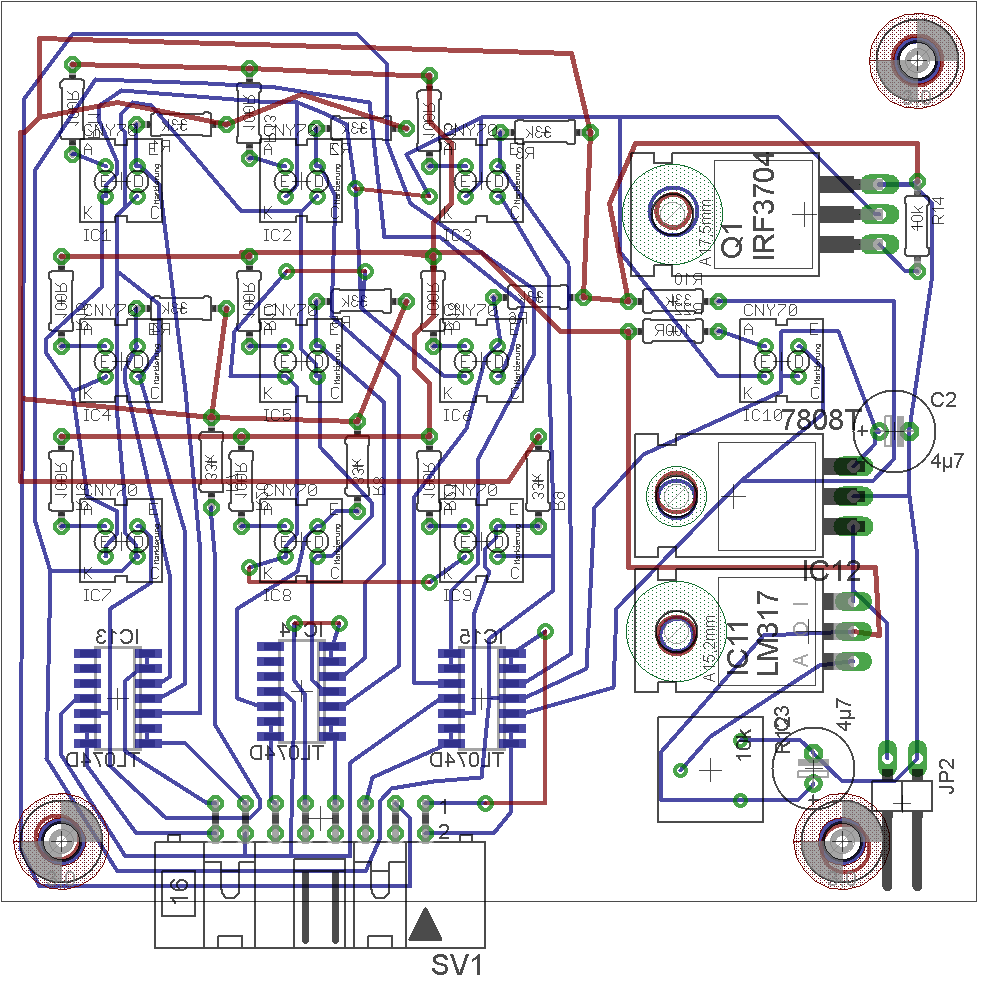
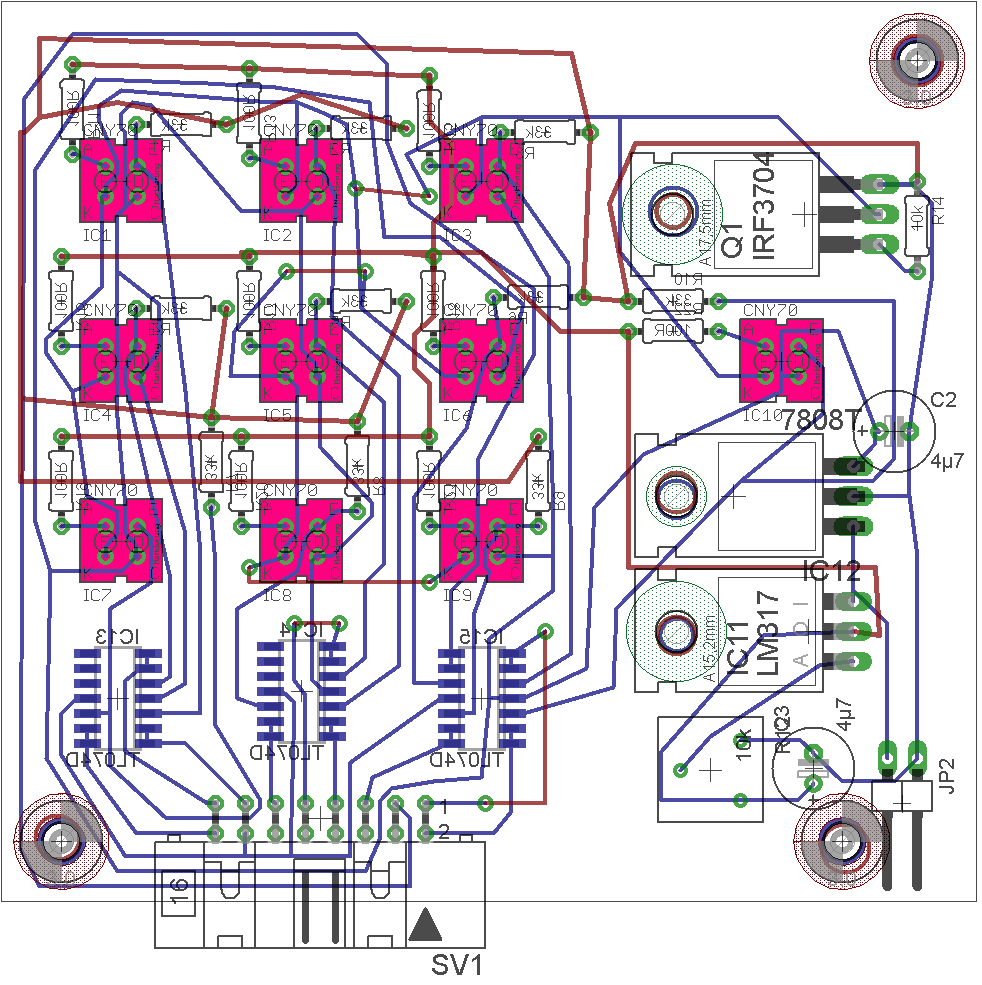
revesion entwicklung

diff --git a/Master_Schmatz.tex b/Master_Schmatz.tex
@@ -269,10 +269,17 @@ Laut IEC 60891 \cite{norm891} berechnet sich die Einstrahlung aus dem gemessenen
 \begin{equation}
 G = \frac{1000Wm^{-2}I_{RC}}{I_{RC,STC}} [1 - \alpha_{RC}(T_{RC}-25^{\circ} C]
 \end{equation}
+
 \begin{figure}[htbp]
 \centering
 \includegraphics[width=125mm]{img/kennlinien.png}
 \caption{Abhängigkeit des MPP von der Einstrahlung. Quelle: \cite{pv}}\label{mpp}
+\end{figure}
+
+\begin{figure}[htbp]
+\centering
+\includegraphics[width=100mm]{img/el.png}
+\caption{Eine EL-Aufnahme der verwendeten Messzelle}\label{el}
 \end{figure}
 
 \chapter{Entwicklungsprozess}\thispagestyle{empty}
@@ -296,7 +303,7 @@ Mit der Größe der Messzelle ist auch die minimale Ausdehnung in den beiden and
 Mecanum-Räder erlauben einem Fahrzeug, ohne mechanischer Lenkung, sich in jede Richtung zu bewegen. Benannt ist es nach dem schwedischen Unternehmen Macanum, welches dieses Rad 1971 entwickelt hat \cite{mecanum}. 
 Jedes Rad wird über einen eigenen Motor angetrieben, und verfügt über eine separate Ansteuerung. Die Räder bestehen aus einer Felge (siehe Abbbildung \ref{rad}), auf der unter einem Winkel von 45 Grad befestigte, ballige Rollen so angebracht sind, die über den Abrollumfang einen exakten Kreis bilden (siehe Abbbildung \ref{rad2}). In die 8 Löcher der Felge werden Kugellager eingeklebt. Jedes der vier Räder besteht aus einer Felge, insgesamt 16 Laufrollen, 8 Kugellager, 8 M4x45mm Schraube, 8 M4 Muttern, sowie 16 M4 Beilagscheiben. 
 Das Rad ist mit einer M3 Schraube und einer M3 Mutter an der Motorachse fixiert.
-Die Felgen und die Laufrollen wurden mit einem 3D-Drucker gefertigt. 
+Die Felgen und die Laufrollen wurden mit einem Ultimaker 3D-Drucker gedruckt. 
 Die Vorlage namens Mecanum Wheel MK2 stammt von http://www.thingiverse.com/thing:2473, und kann unter der Attribution-NonCommercial-ShareAlike 3.0 Unported Lizenz nicht kommerziell verwendet werden.
 Die Laufrollen so angepasst, dass die Mutter bzw. der Schraubenkopf in der Rolle versenkt ist, damit das Rad insgesamt kompakter ist. Zum bearbeiten wurde OpenSCAD, ein 3D-Compiler, verwendet. 
 
@@ -322,10 +329,10 @@ Durch die Schräganordnung der Laufrollen entstehen beim Antreiben eines Rades 2
 \end{figure}
 
 
-Mit OpenSCAD entsteht ein dreidimensionales Modell eines Werkstückes. Damit fängt eine 3D-Drucker wenig an. Ein 3D-Druck setzt sich aus sehr vielen Liniensegmenten zusammen. Dazu muss das 3D-Modell in einzelne dünne Schichten und einzelne Linien zerlegt werden. Dieser Vorgang wird als "Slicing" bezeichnet. Dazu wurde das Programm pronterface verwendet. Mit OpenSCAD wird zunächst ein stl-File erzeugt, dann produziert pronterface daruas die Fahrbefehle für den 3D-Drucker in Form eines g-Files. Als 3D-Drucker wurde ein Ultimaker verwendet. Als Druckmaterial wurde ABS (Acrylnitril-Butadien-Styrol) verwendet, welches in einem Temperaturbereich von 215 bis 230 Grad Celsius per Extruder verarbeitet wird.    
+Mit OpenSCAD entsteht ein dreidimensionales Modell eines Werkstückes. Damit fängt eine 3D-Drucker wenig an. Ein 3D-Druck setzt sich aus sehr vielen Liniensegmenten zusammen. Dazu muss das 3D-Modell in einzelne dünne Schichten und einzelne Linien zerlegt werden. Dieser Vorgang wird als "Slicing" bezeichnet. Dazu wurde das Programm pronterface verwendet. Mit OpenSCAD wird zunächst ein stl-File erzeugt, dann produziert pronterface daruas die Fahrbefehle für den 3D-Drucker in Form eines g-Files. Als Druckmaterial wurde ABS (Acrylnitril-Butadien-Styrol) verwendet, welches in einem Temperaturbereich von 215 bis 230 Grad Celsius per Extruder verarbeitet werden kann.    
 Die Druckzeit pro Rolle betrug 20 Minuten. Insgesamt mussten 64 Rollen gefertigt werden. Die Druckzeit pro Felge betrug etwa drei Stunden, der Roboter benötigte 4 Felgen. Es gibt insgesamt zwei verschiedene Felgentypen, mit nach links oder nach rechts geneigten Rollen. 
 Dazu kommen noch vorbereitende Testdrucke bis die einzelnen Komponenten optimiert waren und der Drucker befriedigend Ergebnisse lieferte. 
-Mehrfach wurde etwa der Durchmesser der Bohrlöcher der Rollen verändert. Nachbearbeitung: Die Löcher für die Kugellager mussten per Hand passend gefeilt werden. Beim  Einsetzen der Kugellager brachen manche der Halterungen. Mit Klebstoff konnten die Kugellager auch in die gebrochenen Halterungen eingebaut werden. Die dauerhafte Haltbarkeit dieser Konstruktion ist allerdings mit einem Fragezeichen behaftet.
+Nach dem Drucken mussten die Teile nachbearbeitet werden.  Die Löcher für die Kugellager mussten per Hand passend gefeilt werden. Beim  Einsetzen der Kugellager brachen manche der Halterungen. Mit Klebstoff konnten die Kugellager auch in die gebrochenen Halterungen eingebaut werden. Die dauerhafte Haltbarkeit dieser Konstruktion ist allerdings mit einem Fragezeichen behaftet.
 
 \subsection{Chassis}\thispagestyle{empty}
 
@@ -338,10 +345,10 @@ Die Abmessungen des Chassis wurde im Wesentlichen abgestimmt auf: \begin{itemize
 \item Die Abmessung der eingekapselten Solarzelle.
  \end{itemize}
 
-Das Chassis besteht aus der Bodenplatte, den Seitenwänden und der oberen Abdeckung mit der Aufnahme für die Messzelle (siehe Abbildung \ref{gehause}). Zur Verringerung des Luftwiderstandes sind zwei Seitenwände geneigt (siehe Abbildung \ref{robo3d}).  
-\noindent Die Einzelteile wurden mit einem Lasercutter aus einer Sperrholzplatte geschnitten. Die Einzelteile wurden teilweise miteinander verleimt. Damit eine zukünftige Wartung problemlos möglich ist, wurde der Aufbau verschraubt ausgeführt.
-Die Motoren sind verschraubt, damit ein Austausch möglich ist. Einzelne Räder als auch die Rollen lassen sich bei Bedarf austauschen. 
-Das Chassis besteht aus der Bodenplatte, den Seitenwänden und der oberen Abdeckung mit der Aufnahme für die Messzelle (siehe Abbildung \ref{gehause}). Zur Verringerung des Luftwiderstandes sind zwei Seitenwände geneigt (siehe Abbildung \ref{robo3d}).  
+Das Chassis besteht aus der Bodenplatte, den Seitenwänden und der oberen Abdeckung mit der Aufnahme für die Messzelle (siehe Abbildung \ref{gehause}). In der Bodenplatte sind Bohrlöcher zur Befestigung der Motoren und für die Montage der Sensorarrayplatine an der Unterseite vorhanden. Zusätzlich gibt es zwei rechteckige Löcher für die Verbindungskabel zur Sensorarrayplatine. Die beiden Seitenwände sind zur Verringerung des Luftwiderstandes geneigt (siehe Abbildung \ref{robo3d}). (Und um dem Roboter den Look eines Schuhkartons zu nehmen.)
+\noindent Die Einzelteile wurden mit einem Lasercutter aus einer Sperrholzplatte geschnitten. Damit eine zukünftige Wartung problemlos möglich ist, wurde der Aufbau verschraubt ausgeführt. 
+Die Motoren sind an die Bodenplatte angeschraubt, damit ein Austausch möglich ist. Auch die einzelnen Räder, wie auch die Rollen lassen sich bei Bedarf austauschen. 
+Die Messzelle ist am Roboter oben befestigt.
 
 
 \begin{figure}[htbp]
@@ -359,7 +366,7 @@ Das Chassis besteht aus der Bodenplatte, den Seitenwänden und der oberen Abdeck
 
 \section{Steuerungselektronik}\thispagestyle{empty}
 
-Dieser Abschnitt beschreibt die Entwicklung der Elektronik. Die Funktionalität wurde auf verschiedene Module aufgeteilt. Das erleichtert die Platzierung der Elektronik innerhalb des Messroboters, und den Austausch von Komponenten im Fehlerfall. 
+Dieser Abschnitt beschreibt die Entwicklung der Elektronik. Die Funktionalität wurde auf verschiedene Module aufgeteilt. Das erleichterte die Platzierung der Elektronik innerhalb des Messroboters, die parallele Entwicklung von Elektronik und Software, sowie den Austausch von Komponenten im Fehlerfall. 
 Das Gehirn des Roboters ist ein Arduino Mega 2560 Mikrocontroller Board. Darauf aufgesteckt ist ein sogenanntes Shield, eine selbst entwickelte Platine, das die $\pm$5V Spannungsversorgung, die Schnittstellen zu den anderen Platinen und einen SD-Karten Einschub beheimatet.
 Es gibt 3 Messplatinen, eine für den Kurzschlussstrom der Messzelle, zwei für Temperaturmessungen. Eine Platine überwacht den Ladezustand des Akkus. Die Steuerung der vier Motoren ist auf einer Platine zusammengefasst.
 Die einzelnen Komponenten sind wie in Abbildung \ref{elek} auf der Bodenplatte angeordnet.
@@ -374,7 +381,7 @@ Die einzelnen Komponenten sind wie in Abbildung \ref{elek} auf der Bodenplatte a
 Die Motorplatine \ref{hbridge2} besteht aus zwei integrierten H-Brücken-Bausteinen (IC1, IC2), einer 16 poligen Buchse und fünf zweipoligen Buchsen für die Stromversorgung und den Anschluss der vier Motoren. Bei den integrierten H-Brücken-Baustein handelt es sich um einen NJM2670 \cite{njm}, welcher zwei H-Brücken in einem Baustein vereint, zusätzlich verfügen diese Bausteine über eine interne Logik, welche Kurzschlüsse über die Brücke unmöglich macht.
 Die Drehzahl der Motoren wird mit Pulsweitenmodulation variiert. Dabei ist es wichtig, dass die Transistoren in der Brücke schnell genug schalten können. Die PWM-Ausgänge des Arduino arbeiten mit einer Frequenz von etwa 500Hz \cite{pwm}.
 Die Gleichspannungsmotoren sind Getriebemotoren mit der Bezeichnung RB 35, und einem Übersetzungsverhältnis von 1:200. Die maximale Versorgungsspannung wurde mit 12V angegeben. Die Leerlaufdrehzahl beträgt bei 12V Versorgungsspannung 20 Umdrehungen pro Minute.
-Der Roboter wird mit einem Lithium-Ionen-Akku versorgt. Die Spannung beträgt, abhängig vom Ladezustand zwischen 16,4V und 15,0V. Damit es zu keiner Überlastung der 12V-Motoren, und die Geschwindigkeit des Roboters nicht zu groß wird, kommt wurde bei der Pulsweitenmodulation ein maximales Tastverhältnis von 50\% eingehalten.
+Der Roboter wird mit einem Lithium-Ionen-Akku versorgt. Die Spannung beträgt, abhängig vom Ladezustand zwischen 16,4V und 15,0V. Damit die 12V-Motoren nicht überlastet werden, wird bei der Pulsweitenmodulation ein maximales Tastverhältnis von 50\% eingehalten.
  
 
 \begin{figure}[htbp]
@@ -386,8 +393,8 @@ Der Roboter wird mit einem Lithium-Ionen-Akku versorgt. Die Spannung beträgt, a
 
 \subsection{Optische Sensorik}\thispagestyle{empty}
 Die optische Sensorik dient der Positionsbestimmung. Der Roboter bewegt während der Messung auf Holzplatten, die aus Gründen, welche unten genauer erläutert werden, schwarz sind, der Roboter orientiert sich an einer aus geraden Teilstücken bestehenden weißen Linienfolge. 
-Als Sensor wurde ein CNY70 verwendet. Der CNY 70 ist ein Reflexionssensor, bestehend aus einer Infrarot. Der Sensor wird in einem fixen Abstand zu einer Ebene montiert. Eine LED sendet Licht mit 950nm aus, welches an der Ebene reflektiert wird. Damit können Unterschiede des Reflektionkoeffizienten gemessen werden. Deshalb sind die Markierungen weiß auf schwarzen Untergrund. Eine Anordnung von neun solcher Sensoren in einem 3-mal-3 Array kann sowohl vertikale als auch horizontale Linien sowie Ecken erkennen. Zusätzlich gibt es einen 10. Sensor, der die Stopmarkierungen für die Messungen erkennt.
-Die neun Sensoren sind im Rastermaß 15,2 mm (= 0,6 Zoll) angeordnet. Der Stopsensor hat einen Abstand von 40,6mm zu dem Sensorarray. 
+Als Sensor wurde ein CNY70 \cite{cny} verwendet. Der CNY 70 ist ein Reflexionssensor, bestehend aus einer Infrarot-Led und einem Phototransistor in einem kompakten 7x7x6 Millimeter Gehäuse. Die LED sendet Infrarotlicht mit einem Maximum bei 950nm aus, welches an einer nahen Fläche reflektiert wird, und einem Phototransistor ansteuert. Der Phototransistor verfügt über einen Tageslichtfilter. Damit können Unterschiede des Reflektionkoeffizienten gemessen werden. Das Messprinzip funktioniert bei eienem Abstand von wenigen Millimetern.  Deshalb sind die Markierungen weiß auf schwarzen Untergrund. Eine Anordnung von neun solcher Sensoren in einem 3-mal-3 Array kann sowohl vertikale als auch horizontale Linien sowie Ecken erkennen. Zusätzlich gibt es einen 10. Sensor, der die Stopmarkierungen für die Messungen erkennt.
+Die neun Sensoren sind im Rastermaß 15,2 mm (= 0,6 Zoll) angeordnet. Der Stopsensor hat einen Abstand von 40,6 mm (= 1,6 Zoll) zu dem Sensorarray. 
 Der Strom durch die LEDs ist mittels Potentiometer einstellbar. 
 Die Platine ist zweiseitig ausgeführt, allerdings sind alle Bauteile an der Unterseite der Platine montiert, bis auf die OPVs in SMD-Ausführung. Das ursprüngliche Layout wurde um folgende zwei Änderungen modifiziert:
 - Auf die Steuerleitung des Transistors wurde vergessen. Da es noch freie Pins am 16-poligen Stecker gab, wurde diese Verbindung mittels Draht hergestellt.
@@ -404,8 +411,8 @@ Die Platine verfügt um drei Bohrlöcher mit jeweils drei Millimeter Durchmesser
 Anschlüsse: Es ist eine 16-polige Leiterplattenbuchse für die Analogsignale, 5V-Versorgung, und des Digitalsignal zum Schalten des FET.  Weiters ist ein zweipoliger Stiftstecker für die Stromversorgung vorhanden.
 \begin{figure}[htbp]
 \centering
-\includegraphics[width=125mm]{img/array2.png}
-\caption{Das Layout des Sensorarrays. Die optischen Sensoren sind gelb markiert.}\label{array2}
+\includegraphics[width=100mm]{img/array21.png}
+\caption{Das Layout des Sensorarrays. Die optischen Sensoren sind rosa markiert.}\label{array2}
 \end{figure}
 
 \begin{figure}[htbp]
